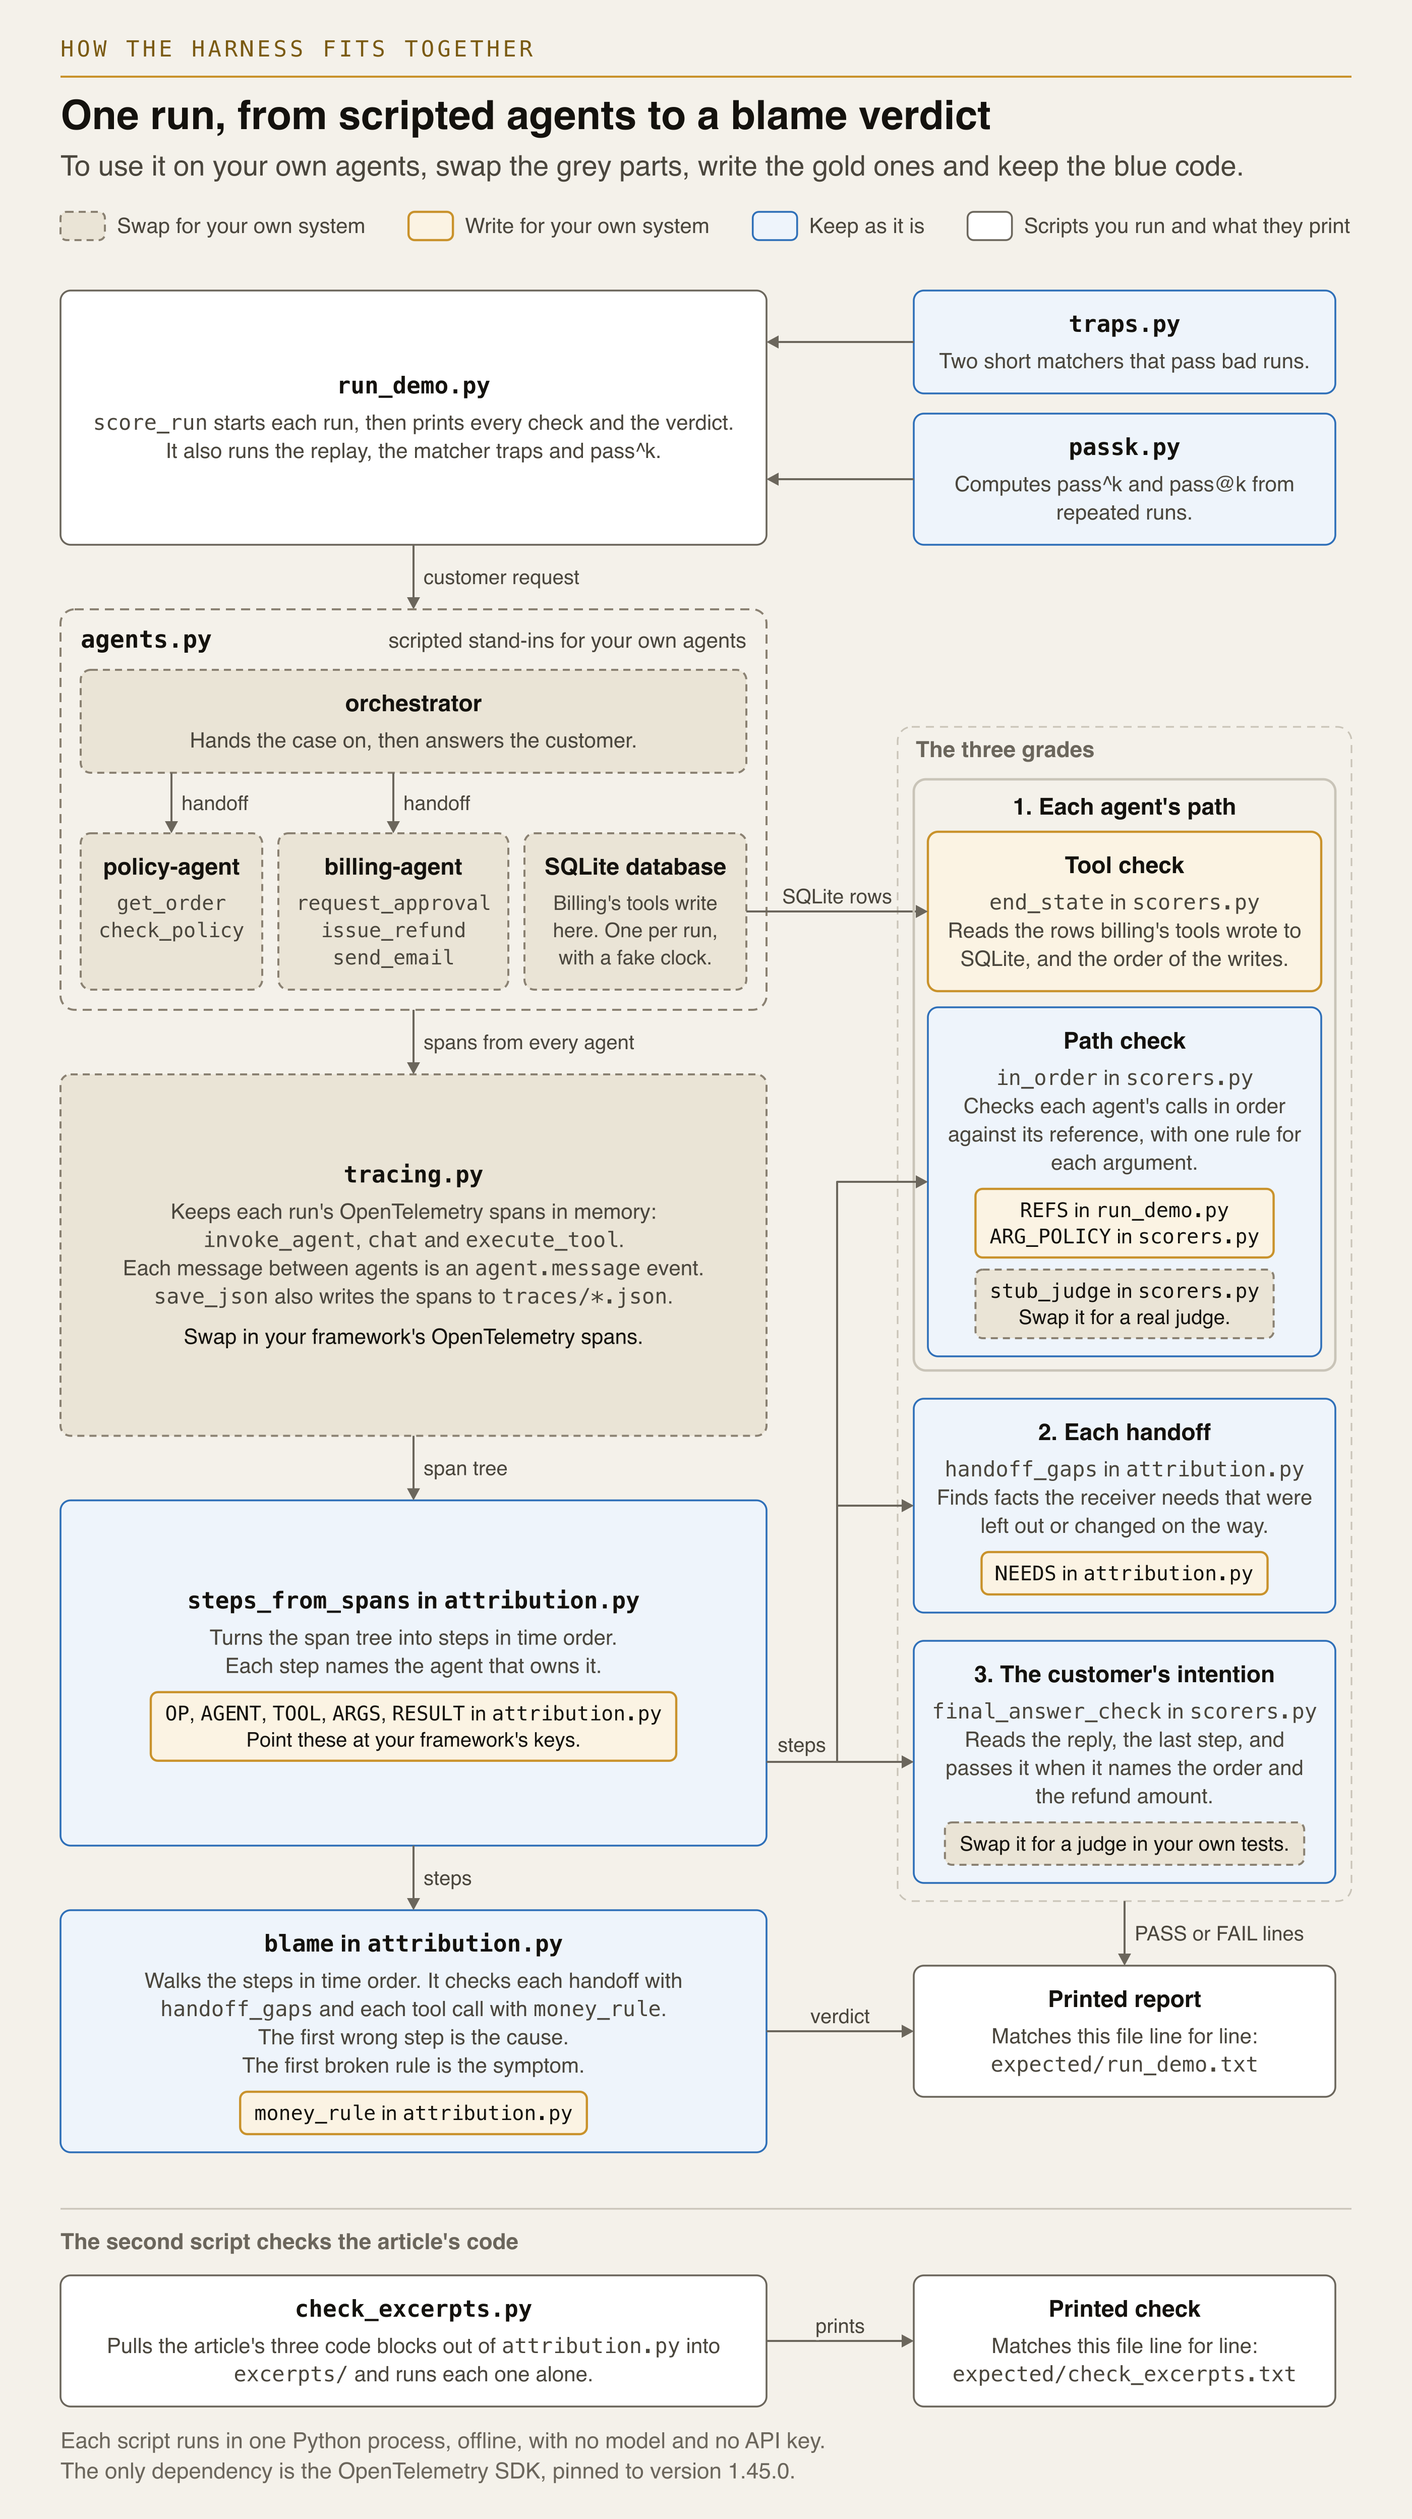
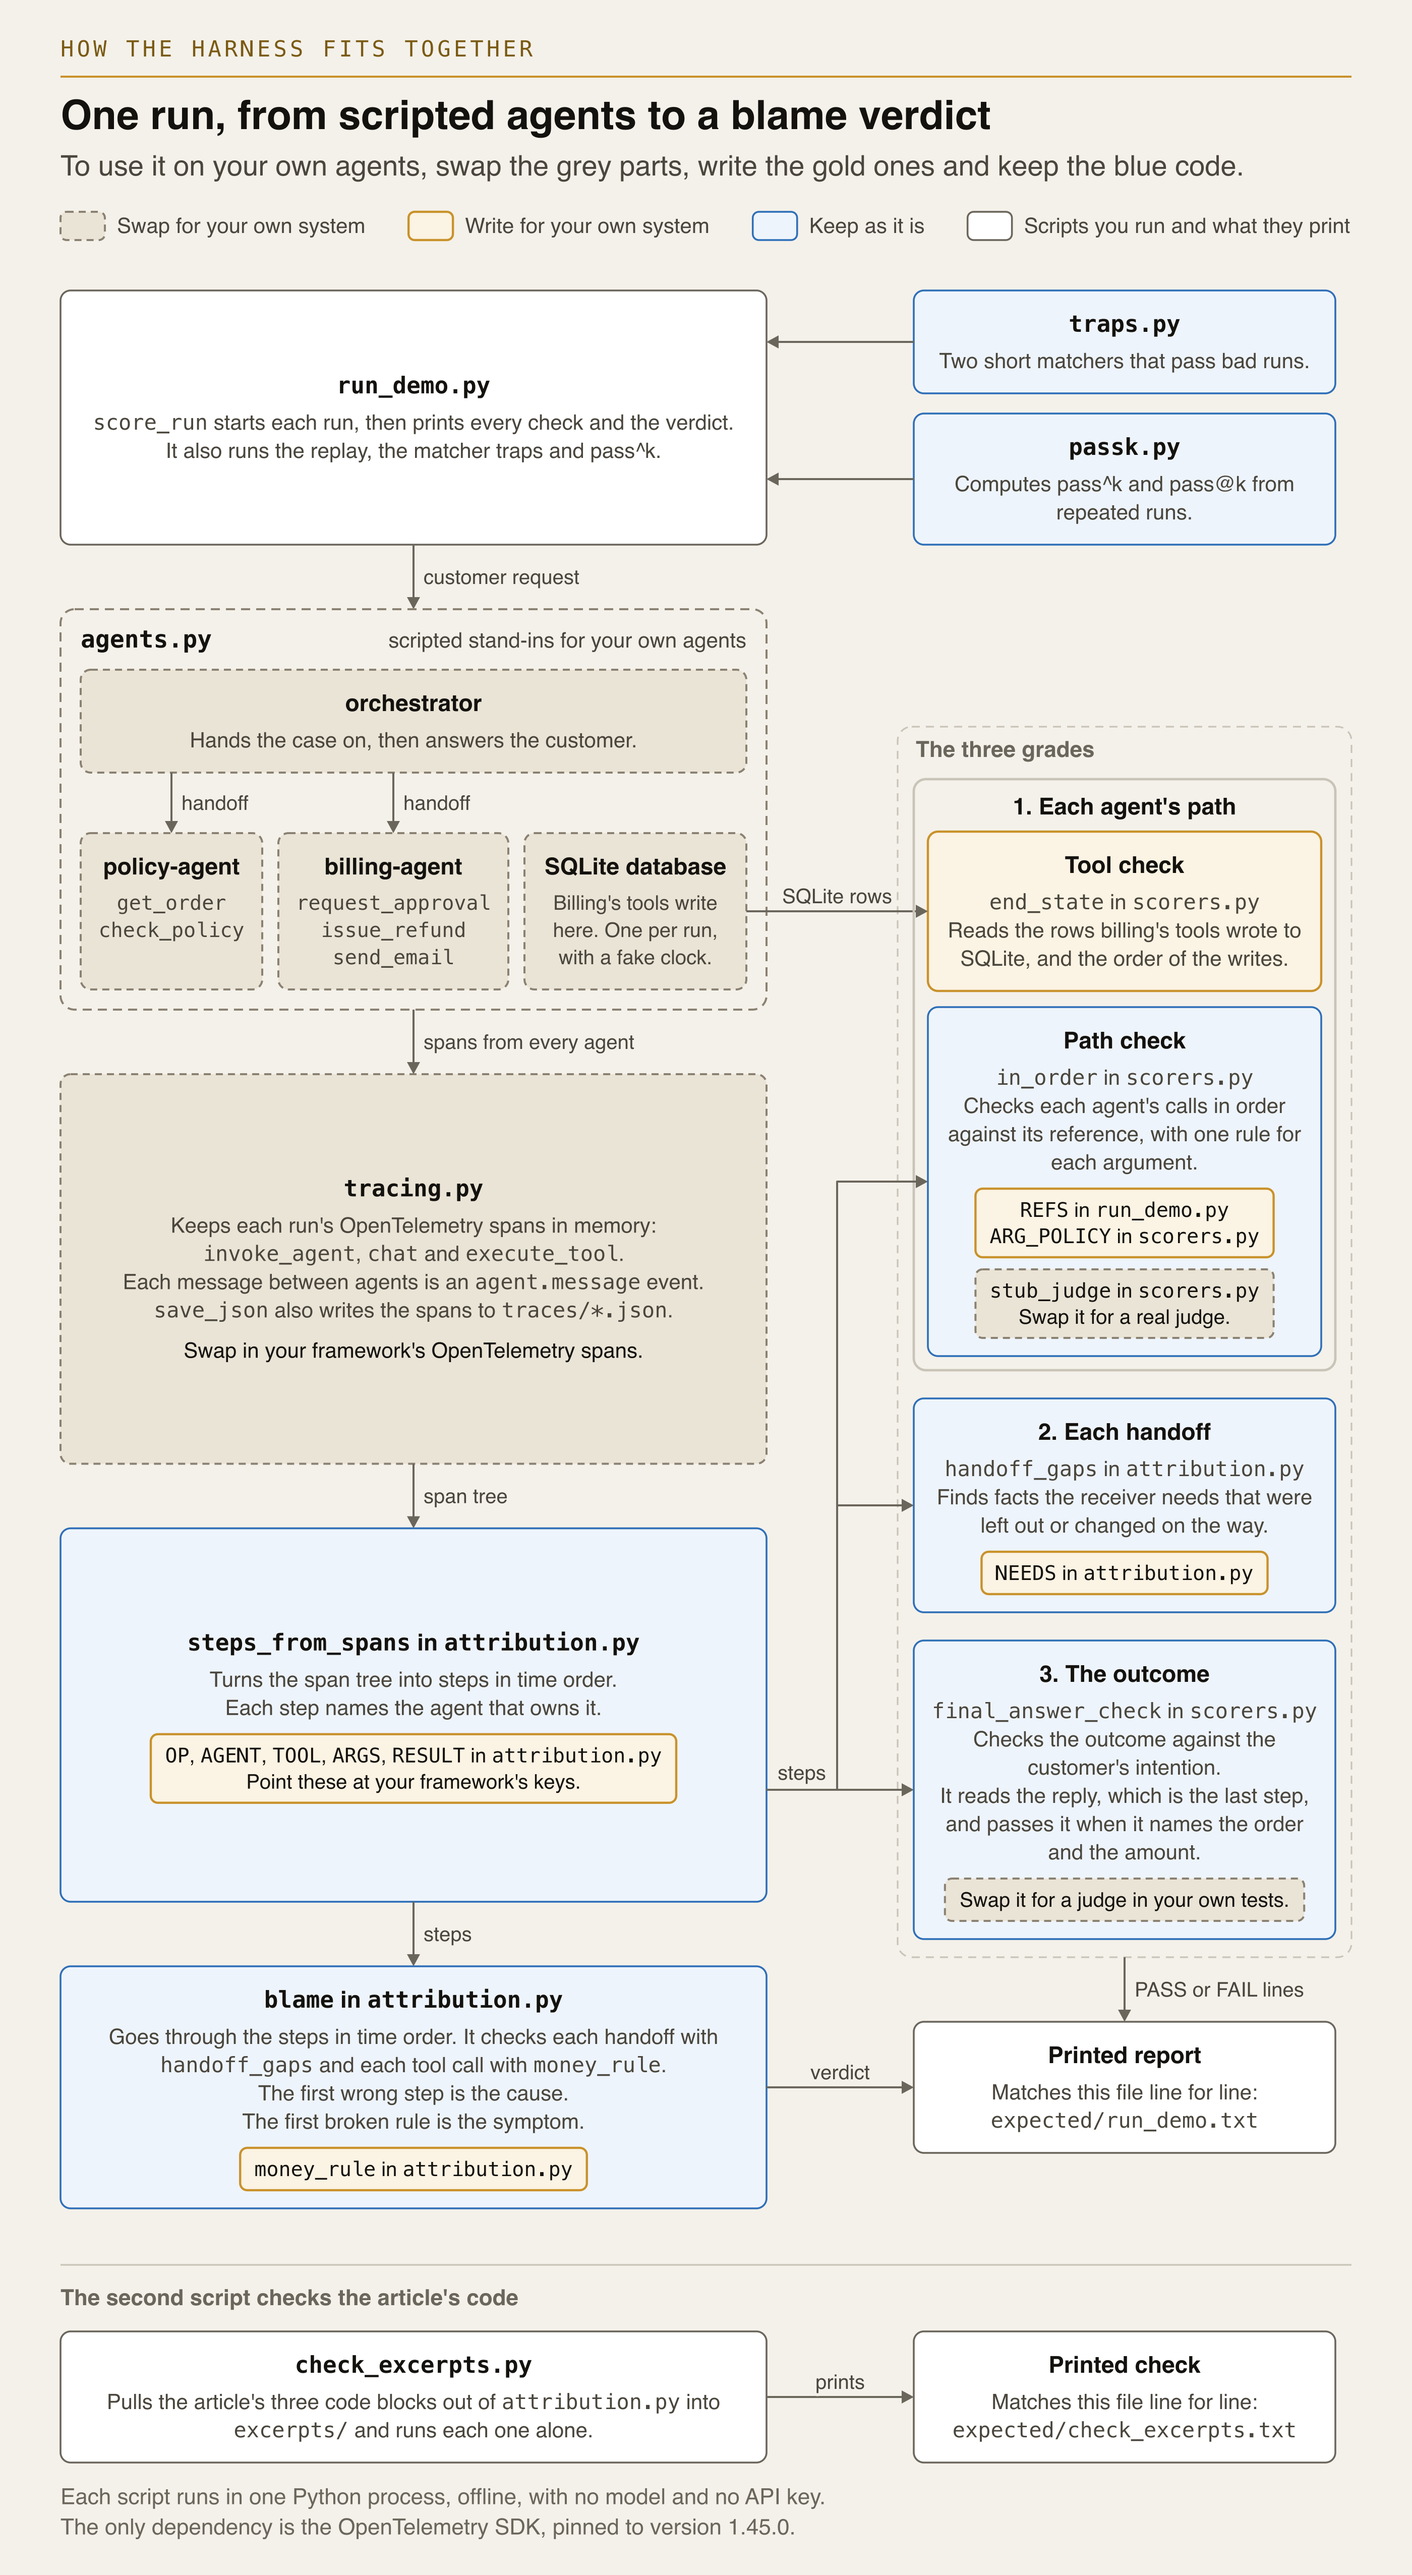
Name grade 3 the outcome, checked against the customer's intention (#4)
The customer's intention is what the customer wants, and the outcome is
what the agent system produces. Grade 3 now checks that the outcome
matches the intention. The README, the harness label for grade 3, the
scorers docstrings, the scored-run and architecture figures follow these
words. The diagnosis-loop figure now says tool result where it used to
say outcome, so outcome keeps one meaning. Only the grade 3 label changed
in expected/run_demo.txt.

diff --git a/run_demo.py b/run_demo.py
@@ -209,7 +209,8 @@ def score_run(title, request, handoff_keys, trace_file, **kw):
     print("-- grade 2: each handoff"
           " (does each fact the next agent needs cross?) --")
     handoff_checks(steps)
-    print("-- grade 3: the customer's intention --")
+    print("-- grade 3: the outcome,"
+          " checked against the customer's intention --")
     ok, why = S.final_answer_check(answer_in_trace, [OID, str(AMOUNT)])
     line("reply names order and amount", ok, why)
     print("-- failure attribution (walk the tree in time order) --")
@@ -277,13 +278,14 @@ def traps():
 
 def system_passes(db, steps):
     """True when a run passes all three grades: each agent's path with
-    billing's tool check, each handoff, and the customer's intention."""
+    billing's tool check, each handoff, and the outcome checked against
+    the customer's intention."""
     paths = all(S.in_order(REFS[a], c, S.stub_judge)[0]
                 for a, c in calls_by_agent(steps).items())
     tools = all(c[1] for c in S.end_state(db, OID, AMOUNT))
-    intent = S.final_answer_check(final_answer_from(steps),
-                                  [OID, str(AMOUNT)])[0]
-    return paths and tools and intent and blame(steps)[0] is None
+    outcome_ok = S.final_answer_check(final_answer_from(steps),
+                                      [OID, str(AMOUNT)])[0]
+    return paths and tools and outcome_ok and blame(steps)[0] is None
 
 
 def repeated_runs(n=8, seed=2026, p_bad=0.25):

diff --git a/scorers.py b/scorers.py
@@ -5,7 +5,9 @@ for each argument and the check on what billing's tools wrote to
 SQLite come unchanged from the single-agent harness. So does the
 in-order matcher, which avoids the bugs shown in traps.py. In this
 multi-agent harness, run_demo.py runs the in-order matcher once for
-each agent.
+each agent. The last function, final_answer_check, grades the outcome
+instead of the trajectory. It checks the outcome against the
+customer's intention.
 """
 import json
 
@@ -169,10 +171,14 @@ def end_state(db, order_id, amount):
 
 
 def final_answer_check(text, must_include):
-    """Check the customer's intention on the reply.
+    """Check the outcome against the customer's intention.
 
-    The reply passes when it names every item in must_include, here
-    the order ID and the refund amount.
+    The customer's intention is what the customer wants, here a refund
+    of $450 for order A-1001. The outcome is what the system produces,
+    and this check reads one part of it, the reply. The reply passes
+    when it names every item in must_include, here the order ID and the
+    refund amount. end_state checks the refund row itself, as part of
+    billing's tool check.
     """
     missing = [m for m in must_include if m not in text]
     return not missing, (f"missing {missing}" if missing

diff --git a/README.md b/README.md
@@ -5,8 +5,9 @@
 If you have built a multi-agent system, you may have a test that reads only the final reply.
 That test can pass a run where the money went out before anyone approved it. This repo grades
 each run on three things: each agent's path with its tool checks, each handoff between agents
-(a message that passes work from one agent to another), and the customer's intention, which is
-whether the customer got what they asked for. Then it names the agent that caused the failure.
+(a message that passes work from one agent to another), and the outcome, checked against the
+customer's intention. The customer's intention is what the customer wants, and the outcome is
+what the agentic AI system produces. Then the repo names the agent that caused the failure.
 
 ![A three-agent refund run. The orchestrator leaves the approval flag out of its message to billing. Billing refunds one second before it asks for approval, but a test on the final reply still passes](assets/hero-handoff.gif)
 
@@ -27,11 +28,11 @@ it only followed its instruction with the facts it had. If your grader checks on
 whose action looks wrong, it blames billing, and you fix billing while the orchestrator keeps
 dropping the flag.
 
-There is no pip package, so you clone the repo and run its Python files. Since the three
-agents are scripted Python, the demo runs offline with no model and no API key. The path
-check, the handoff check and `blame`, the function that names the agent at fault, all read
-OpenTelemetry spans. A span is the timed record of one agent run, model call or tool call. The
-section [Use it on your own agents](#use-it-on-your-own-agents) shows how to run the same
+There is no pip package, so you clone the repo and run its Python files. Since the three agents
+are scripted Python, the demo runs offline with no model and no API key. `blame` is the
+function that names the agent at fault. It reads OpenTelemetry spans, and so do the path check
+and the handoff check. A span is the timed record of one agent run, model call or tool call.
+The section [Use it on your own agents](#use-it-on-your-own-agents) shows how to run the same
 checks on your system.
 
 I wrote this code for the article *Multi-Agent Trajectory Evaluation, Explained Simply*
@@ -63,7 +64,7 @@ orchestrator hands off to billing, and billing refunds at step 7 and asks for ap
 step 8.
 
 Each run gets three grades. The first two grade the trajectory, and the third grades the
-outcome from the customer's side.
+outcome.
 
 1. Each agent's path, with its tool checks. The path check compares each agent's own calls, in
    order, with a short reference list for that agent in `REFS` in `run_demo.py`. For the
@@ -82,8 +83,11 @@ outcome from the customer's side.
    listed in `NEEDS` in `attribution.py`. It checks that the handoff carries each fact with the
    value the sender knew by then. A sender knows a fact once the fact reaches it in a message
    or in the result of its own tool call.
-3. The customer's intention. `final_answer_check` in `scorers.py` reads the reply, the last
-   step, and passes it when it names the order, A-1001, and the refund amount, 450.
+3. The outcome, checked against the customer's intention. Here the customer's intention is a
+   refund of $450 for order A-1001. The outcome is the reply the customer gets and the refund
+   the system issues. `final_answer_check` in `scorers.py` reads the reply, which is the last
+   step, and passes it when it names the order A-1001 and the amount 450. Billing's tool check
+   in grade 1 already reads the refund row.
 
 Once a run fails, we need to know which agent caused it. `blame` in `attribution.py` goes
 through the steps in time order. A handoff is wrong when it fails the handoff check, and a tool
@@ -92,11 +96,13 @@ before a refund. `blame` takes the first wrong step as the cause and blames its 
 that made that call or sent that message. It also reports the first tool call that broke a
 rule, and calls it a symptom when it comes after the cause.
 
-![The failing run and the correct run scored by the three grades. In the failing run, billing's path, its approval-before-refund tool check and the handoff to billing fail, the customer's intention is met, and blame goes to the orchestrator at step 6. In the correct run every check passes](assets/scored-run.png)
+![The failing run and the correct run scored by the three grades. In the failing run, billing's path, its approval-before-refund tool check and the handoff to billing fail, the outcome matches the customer's intention, and blame goes to the orchestrator at step 6. In the correct run every check passes](assets/scored-run.png)
 
-In the failing run, the customer's intention is met, but billing's path, its
-approval-before-refund check and the handoff to billing all fail. The handoff fails at step 6,
-one step before billing's early refund, so `blame` names the orchestrator.
+In the failing run, the outcome matches the customer's intention, because the customer gets
+the refund and the right reply. However, the run breaks the approval rule, and only the two
+trajectory grades catch that. Billing's path, its approval-before-refund check and the handoff
+to billing all fail. The handoff fails at step 6, one step before billing's early refund, so
+`blame` names the orchestrator.
 
 ![The handoff check going row by row through the four facts billing needs. Order ID, amount and email arrive unchanged, and needs_approval is missing](assets/handoff-check.gif)
 
@@ -222,7 +228,8 @@ repo. If you edit them inside this repo instead, CI can fail, because it checks 
      `scorers.py`. An argument you do not list there must match exactly.
    - what each tool must change, in `end_state` in `scorers.py`
    - the facts each receiving agent needs, in `NEEDS` in `attribution.py`
-   - what the reply must confirm, in `score_run` and `system_passes` in `run_demo.py`
+   - the values the reply must name to match the customer's intention, in `score_run` and
+     `system_passes` in `run_demo.py`
    - the rules `blame` checks on each tool call, in `money_rule` in `attribution.py`
 
    Be careful with `money_rule`, because in this repo it looks only at `request_approval` and
@@ -259,7 +266,7 @@ have names, you can count how often each kind happens.
 | `agents.py` | The three scripted agents, their tools, the shared SQLite database, the fake clock, and the code that records each run as spans |
 | `tracing.py` | OpenTelemetry setup, with spans kept in memory and saved to `traces/` |
 | `attribution.py` | `steps_from_spans`, `handoff_gaps`, `money_rule` and `blame`, printed in the article word for word |
-| `scorers.py` | In-order path matching with a rule per argument, `end_state` for billing's rows, the check on the customer's intention, and the stub judge |
+| `scorers.py` | In-order path matching with a rule per argument, `end_state` for billing's rows, the outcome check against the customer's intention, and the stub judge |
 | `traps.py` | The two common matchers that pass bad runs |
 | `passk.py` | Pass^k and pass@k, with tau-bench's formulas |
 | `run_demo.py` | Runs everything and prints every verdict |
@@ -277,9 +284,9 @@ The agents are scripted stand-ins that take the same steps on every run, so the 
 tell you how often a real model fails these checks. Run the checks on your own system to find
 out.
 
-The check on the customer's intention only looks for the order ID and the amount in the reply.
-A reply that names both but turns the refund down would still pass, so in your own tests, use a
-judge for this check.
+The outcome check only looks for the order ID and the amount in the reply. A reply that names
+both but turns the refund down does not match the customer's intention, yet it would still
+pass, so in your own tests, use a judge for this check.
 
 OpenTelemetry still marks the GenAI semantic conventions as Development, which means they can
 change, so pin the version of your instrumentation.
